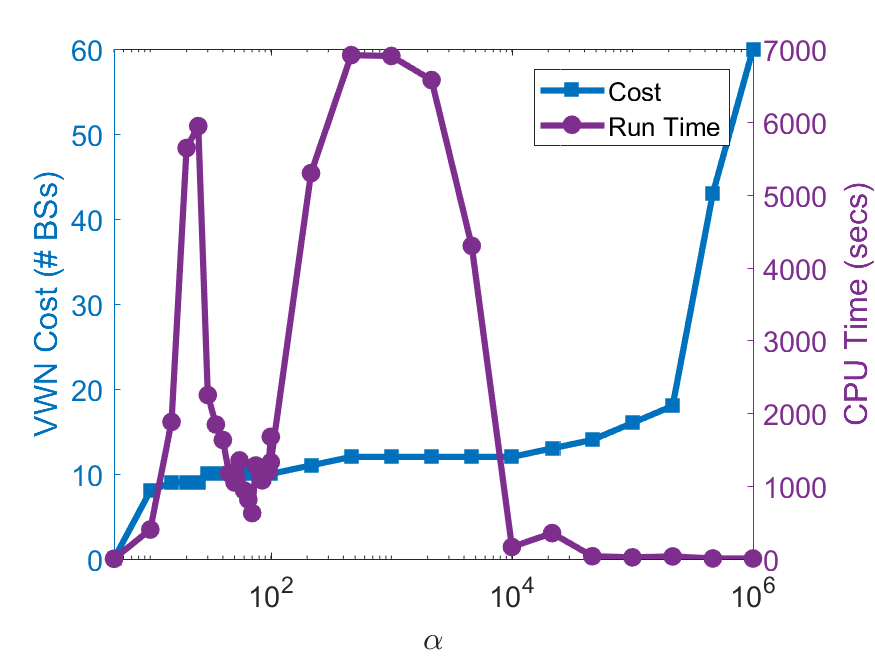
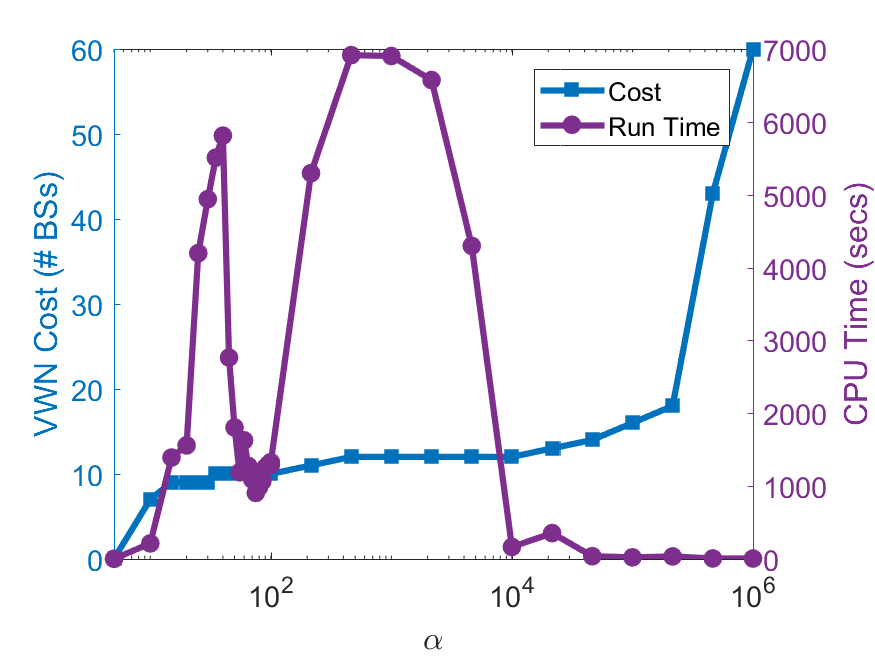
Continued Work on 4.1; Almost Done with Results
FINISH

Changed region(s): [[0.1234, 0.1829, 0.3086, 0.8537]]

diff --git a/KT_Thesis.tex b/KT_Thesis.tex
@@ -1120,31 +1120,71 @@ The GA approach settles on solutions with four different values of network cost.
 	\label{fig:Prelim_GARunTimesVCosts}
 \end{figure}
 
-% Directly compare the sDEP and the GA costs
-The trade off for the GA's improved run time is that the solution provided is expected to be less optimal than the sDEP, as indicated by an increased cost for the VWN and/or a decreased demand satisfaction compared to the sDEP.  \Cref{fig:Prelim_VWNCompCost} compares the cost of the sDEP as $\alpha$ increases with the cost of the various GA solutions.  
-
-On average, the GA incurs a 36\% increased cost for the VWN, a significant amount of incurred error.
+The trade off for the GA's improved run time is that the solution provided is expected to be less optimal than the sDEP, as indicated by decreased demand satisfaction for the constructed VWN compared to the sDEP for similar cost networks.  \Cref{fig:Prelim_VWNCompCost} compares the cost of the sDEP as $\alpha$ increases with the cost of the GA solutions.  It should be noted that, since the constructed networks are on the order of ten BSs, each addition or removal of a BS incurs a large amount of cost error.
 
 \begin{figure}[ht]
 	\centering
-	\includegraphics[height=0.45\textheight]{Figures/Prelim_O25sDEPGACostComparison_Expanded}
-	\caption[Preliminary simulation constructed VWN costs]{VWN Costs; 95\% confidence interval shown in black}
+	\includegraphics[height=0.45\textheight]{Figures/Prelim_O25sDEPGACostComparison_Expanded2}
+	\caption[Preliminary simulation constructed VWN costs]{Constructed VWN Costs for sDEP and GA approaches.}
 	\label{fig:Prelim_VWNCompCost}
 \end{figure}
 
-At minimum, the incurred cost is only 20\% than the sampled DEP, which implies the genetic algorithm might be terminating early, and a tighter solution might be found by increasing $G_\text{halt}$.  It should also be noted that one unit of cost is one additional BS being selected for the VWN, and the sampled DEP selections for $\alpha \geq 30$ have a cost of only 10 BSs.  Any variance that incurs one additional BS for the genetic algorithm incurs 10\% increased cost.  Increasing the number of BSs required to comprise the VWN would introduce additional granularity in $\mathcal{S}$ that might decrease the inefficiency of the genetic algorithm.  This was not done as this data set was chosen specifically so the sampled DEP would terminate within 15 minutes (i.e., in a reasonable amount of time); increasing the number of BSs available to the VNB drastically increases the time it would take the sampled DEP to converge to a solution.
+Differing ranges of $\alpha$ provide distinct solutions to compare against the GA, notably: $\alpha < \expnumber{4.6}{2}$, where the sDEP provides a solution of less cost than the GA; $\alpha \approx \left[ \expnumber{4.6}{2},\, \expnumber{1.0}{4} \right]$, where the sDEP provides a solution of equal cost to the best GA solution; $\alpha \approx \left\{ \expnumber{2.2}{4},\, \expnumber{4.6}{4} \right\}$, where the GA provides solutions around the mean of the GA; and $\alpha \geq \expnumber{1.0}{5}$, where the sDEP provides solutions that are more costly than the GA.  Of these, the first two regions are of the most interest.  The first range generates networks with lower cost than the GA and is expected to provide less demand satisfaction.  Alternatively, the second range generates a network with equal cost to the GA and should provide equal or greater demand satisfaction.
+
+The later test cases (\Cref{sec:caseI,sec:caseII}) will consider a modification to $\lambda_n$ to allow the GA approach to construct networks with more or less intended cost.
 
 \subsubsection{Demand Satisfaction}
 
-There is a direct correlation between the number of BSs in the VWN and its capability for satisfying demand.  As the cost - and, therefore, the number of BSs - increases for a given solution, the average demand satisfaction trends towards 100\%, as shown in \Cref{fig:Prelim_VWNCompSatis}.  Because of this overallocation of resources, the genetic algorithm solutions have a very high demand satisfaction, averaging 99.9\% satisfaction and reaching 100\% for some solutions.  The worst performing genetic algorithm solution exceeded 99.1\% demand satisfaction.  The most expensive 10-BS sampled DEP solutions reach 99.2\% when slicing to the same set of demand point scenarios, $\Omega$, that determined the sampled DEP BS selection.
+There is a direct correlation between the number of BSs in the VWN and its capability for satisfying demand.  As the cost increases for a given solution, the average demand satisfaction trends towards 100\%.  This trend for the sDEP and the GA is depicted in \Cref{fig:Prelim_VOSDemandSatisfaction} and \Cref{tab:Prelim_DemandSatisfaction}.
 
 \begin{figure}[ht]
 	\centering
-	\includegraphics[height=0.45\textheight]{Figures/Prelim_ComparisonSatisfaction}
-	\caption{SP demand point satisfaction}
-	\label{fig:Prelim_VWNCompSatis}
+	\includegraphics[height=0.45\textheight]{Figures/Prelim_O25_VOSDemandSatisfaction}
+	\caption[Preliminary simulation sDEP demand satisfaction]{Demand satisfaction of various sDEP constructed VWns.}
+	\label{fig:Prelim_VOSDemandSatisfaction}
 \end{figure}
 
+\begin{table}[htp]
+\centering
+\caption{Demand Satisfaction Results for Various sDEP- and the GA-Constructed VWNs for Preliminary Simulations}
+\begin{tabular}{|c|c|} 
+\hline
+\textbf{Number of Selected BSs; sDEP} & \textbf{Demand Satisfaction} \\
+\hline
+0 & 0.00\% \\
+\hline
+7 & 78.1\% \\
+\hline
+9 & 95.8\% \\
+\hline
+10 & 99.0\% \\
+\hline
+11 & 99.7\% \\
+\hline
+12+ & 100\% \\
+\hline
+\hline
+\textbf{Number of Solutions, BSs; GA} & \textbf{Demand Satisfaction} \\
+\hline
+1, 13-BS & 99.99\% \\
+\hline
+1, 14-BS & 99.99\% \\
+\hline
+48, all others & 100.0\% \\
+\hline
+\end{tabular}
+\label{tab:Prelim_DemandSatisfaction}
+\end{table}
+
+Demand satisfaction approaches 100\% until reaching it for all sDEP solutions containing 12 or more BSs.  This covers the latter two ranges described while discussing VWN cost (i.e., $\alpha \approx \left\{ \expnumber{2.2}{4},\, \expnumber{4.6}{4} \right\}$ and $\alpha \geq \expnumber{1.0}{5}$), which generate 100\% demand satisfaction for the scenarios that they were optimized for.  That is, VWNs constructed by the sDEP approach that have similar (or higher) VWN cost to the average GA solution have perfect demand satisfaction.  Similarly, 48 of the 50 GA approaches also have 100\% demand satisfaction.  These solutions are over allocating resources to the VWNs, but this shows that the GA does not allocate ineffectively.
+
+Further, the second sDEP range (i.e., $\alpha \approx \left[ \expnumber{4.6}{2},\, \expnumber{1.0}{4} \right]$) also allocates sufficient resources (12 BSs) to provide 100\% demand satisfaction.  The single 12-BS GA solution, which shows the GA is capable of finding an equivalent cost network to the sDEP in this range, also has 100\% demand satisfaction.  For this critical range where the sDEP and the best GA findings intersect, the GA provides a 100\% demand satisfaction network for no additional cost than the sDEP, and provides it in 189.9 seconds, or a 36.4x CPU time speedup; for equal cost networks, the GA provides a network with zero error in these preliminary simulations.
+
+The first sDEP range (i.e., $\alpha < \expnumber{4.6}{2}$) is wholly described by solutions that provide less than 100\% demand satisfaction, but quickly approach that value with obviously diminishing returns.  This does inform to appropriate values of $\alpha$ to consider within the VNB to aim for specific percent demand satisfactions, though this will likely change according problem parameters.  What this range most importantly shows is that there does not exist, at least as far as the sDEP is an approximation of the original two-stage stochastic optimization program, any solutions that give equal demand satisfaction for less cost than the GA's solution.  This shows that the GA's intent--providing a minimum cost network for maximal demand satisfaction with low error to the optimal--is validly approached; the GA optimizes for a network that provides 100\% demand satisfaction, and provides that optimization with zero error.
+
+As mentioned within analysis of VWN cost, the two following test cases (\Cref{sec:caseI,sec:caseII}) consider a modification to $\lambda_n$ that allows for the GA to consider networks not aiming to provide 100\% demand satisfaction.
+
+\improvement{Pick up from here}%
 When the set of demand points change to a scenario no longer in $\Omega$, the sampled DEP performs very similarly.  \Cref{fig:Prelim_VWNCompSatisEval} shows the demand satisfaction for both the sampled DEP and genetic algorithm BS selections when sliced to a new set of scenarios as evaluated with Problem 3.  Here, the number of demand points increases to 200 points per scenario, each with 66.8 kbps rate demand, across 50 independent scenarios.  The demand satisfaction trend of the sampled DEP BS selection follows very closely to the original set of scenarios but hits a maximum of 99.0\% demand satisfaction with 10 BSs.  In comparison, the SP demand point scenarios are far more beneficial to the genetic algorithm, which reaches greater than 99.99\% demand satisfaction for all generated VWNs.  This is expected as a side effect of the increased number of points and scenarios more accurately describing a sampling of the original SSLT demand density field of the SP, $\rho$.
 
 \begin{figure}[ht]
